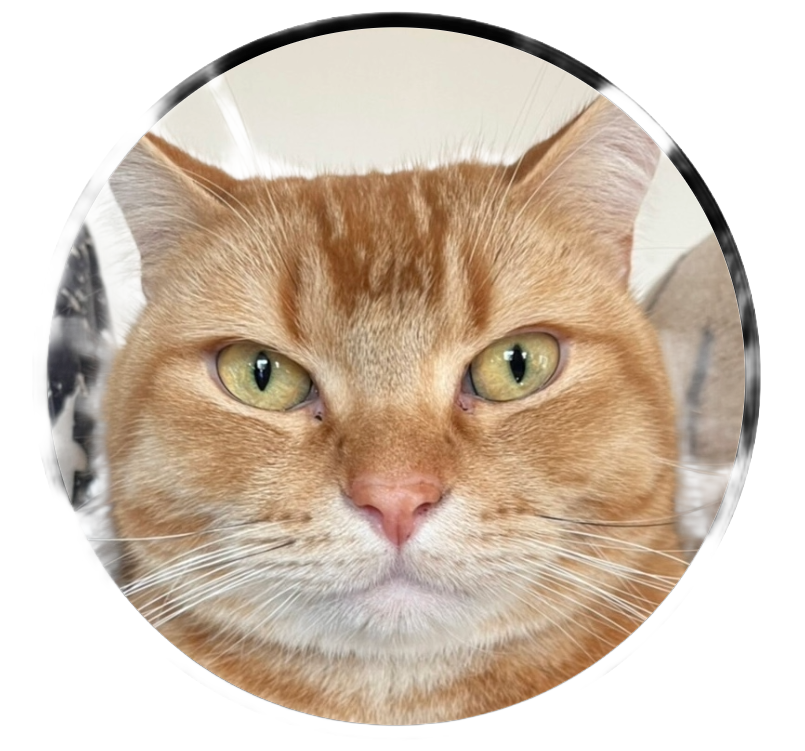
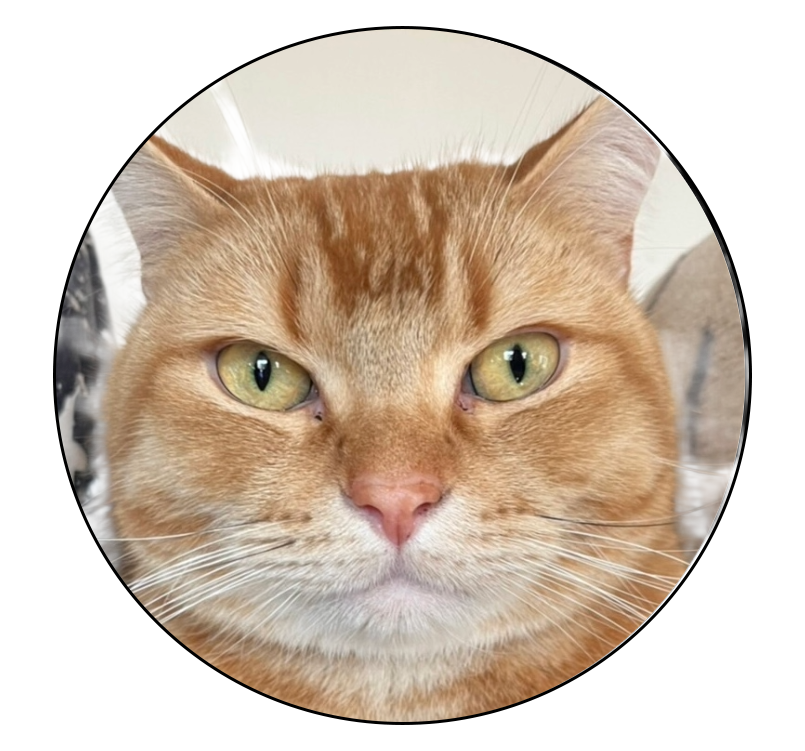
Add files via upload

diff --git a/index.html b/index.html
@@ -182,8 +182,6 @@
 
             <ul class="work-list">
 
-                <!-- WEB -->
-
                 <li class="work-item" data-category="web">
                     <a href="./gyoza.html">
                         <div class="work-thumb">
@@ -193,27 +191,7 @@
                     </a>
                 </li>
 
-                <li class="work-item" data-category="web">
-                    <a href="./work_cafe.html">
-                        <div class="work-thumb">
-                            <img src="./work/web/mokup/cafe_mokup_thumb.gif" alt="">
-                        </div>
-                        <p>カフェサイト</p>
-                    </a>
-                </li>
-
-                <li class="work-item" data-category="web">
-                    <a href="./bicycle.html">
-                        <div class="work-thumb">
-                            <img src="./work/web/mokup/bicycle_mokup_thumb.gif" alt="">
-                        </div>
-                        <p>サイクリングショップ</p>
-                    </a>
-                </li>
-
-
-                <!-- MOVIE -->
-
+                
                 <li class="work-item" data-category="movie">
                     <a href="./web_introduce.html">
                         <div class="work-thumb">
@@ -244,6 +222,37 @@
                     </a>
                 </li>
 
+                
+                <li class="work-item" data-category="web">
+                    <a href="./work_cafe.html">
+                        <div class="work-thumb">
+                            <img src="./work/web/mokup/cafe_mokup_thumb.gif" alt="">
+                        </div>
+                        <p>カフェサイト</p>
+                    </a>
+                </li>
+
+
+                <li class="work-item" data-category="graphic">
+                    <a href="./tomato_bunner.html">
+                        <div class="work-thumb graphic-thumb">
+                            <img src="./work/banner/akanosyukan.jpg" alt="">
+                        </div>
+                        <p>トマトジュースPRバナー</p>
+                    </a>
+                </li>
+
+
+                <li class="work-item" data-category="graphic">
+                    <a href="./namonaki.html">
+                        <div class="work-thumb graphic-thumb">
+                            <img src="./work/flyer/namonaki.jpg" alt="">
+                        </div>
+                        <p>サンドイッチ屋ポスター</p>
+                    </a>
+                </li>
+
+
                 <li class="work-item" data-category="movie">
                     <a href="./tacos.html">
                         <div class="work-thumb">
@@ -259,25 +268,6 @@
                     </a>
                 </li>
 
-                <!-- GRAPHIC -->
-
-                <li class="work-item" data-category="graphic">
-                    <a href="./tomato_bunner.html">
-                        <div class="work-thumb graphic-thumb">
-                            <img src="./work/banner/akanosyukan.jpg" alt="">
-                        </div>
-                        <p>トマトジュースPRバナー</p>
-                    </a>
-                </li>
-
-                <li class="work-item" data-category="graphic">
-                    <a href="./namonaki.html">
-                        <div class="work-thumb graphic-thumb">
-                            <img src="./work/flyer/namonaki.jpg" alt="">
-                        </div>
-                        <p>サンドイッチ屋ポスター</p>
-                    </a>
-                </li>
 
                 <li class="work-item" data-category="graphic">
                     <a href="./syunkikousyu.html">
@@ -285,6 +275,15 @@
                             <img src="./work/banner/syunkikousyu.jpeg" alt="">
                         </div>
                         <p>春季講習女性向け</p>
+                    </a>
+                </li>
+
+                <li class="work-item" data-category="web">
+                    <a href="./bicycle.html">
+                        <div class="work-thumb">
+                            <img src="./work/web/mokup/bicycle_mokup_thumb.gif" alt="">
+                        </div>
+                        <p>サイクリングショップ</p>
                     </a>
                 </li>
 

diff --git a/css/style.css b/css/style.css
@@ -184,6 +184,27 @@ h2 {
     line-height: 1.8;
 }
 
+.about-container img{
+    max-width: 200px;
+    animation: floatCat 4s ease-in-out infinite;
+}
+
+@keyframes floatCat{
+
+    0%{
+        transform: translateY(0);
+    }
+
+    50%{
+        transform: translateY(-8px);
+    }
+
+    100%{
+        transform: translateY(0);
+    }
+
+}
+
 /* work */
 
 .work-section h3 {
@@ -210,6 +231,18 @@ h2 {
     margin-top: -10px;
     margin-bottom: 40px;
     letter-spacing: 0.05em;
+}
+
+.work-item[data-category="web"] .work-thumb{
+    border-top:6px solid #4A90E2;
+}
+
+.work-item[data-category="movie"] .work-thumb{
+    border-top:6px solid #E74C3C;
+}
+
+.work-item[data-category="graphic"] .work-thumb{
+    border-top:6px solid #27AE60;
 }
 
 .work-thumb {
@@ -252,9 +285,33 @@ h2 {
     border-radius: 999px;
 }
 
+.filter-btn[data-filter="web"]{
+    border-color:#4A90E2;
+}
+
+.filter-btn[data-filter="movie"]{
+    border-color:#E74C3C;
+}
+
+.filter-btn[data-filter="graphic"]{
+    border-color:#27AE60;
+}
+
 .filter-btn.active {
     background: #333;
     color: #fff;
+}
+
+.filter-btn[data-filter="web"].active{
+    background:#4A90E2;
+}
+
+.filter-btn[data-filter="movie"].active{
+    background:#E74C3C;
+}
+
+.filter-btn[data-filter="graphic"].active{
+    background:#27AE60;
 }
 
 .work-item.is-hidden {
@@ -426,6 +483,37 @@ h2 {
     background: #fff;
     border-radius: 999px;
     font-size: 14px;
+}
+
+/* いったん隠す */
+.skills-list li,
+.learning-box,
+.strength-box {
+    opacity: 0;
+    transform: translateY(30px);
+    transition: all 0.8s ease;
+}
+
+/* ふわっと出す */
+.fade-in {
+    opacity: 1 !important;
+    transform: translateY(0) !important;
+}
+
+.skills-list li:nth-child(1){
+    transition-delay: 0.1s;
+}
+
+.skills-list li:nth-child(2){
+    transition-delay: 0.2s;
+}
+
+.skills-list li:nth-child(3){
+    transition-delay: 0.3s;
+}
+
+.skills-list li:nth-child(4){
+    transition-delay: 0.4s;
 }
 
 /* contact */

diff --git a/js/script.js b/js/script.js
@@ -144,3 +144,30 @@ document.querySelectorAll('.sp-nav a').forEach(link => {
     });
 });
 
+
+// ====================
+//  スキルカード　ふわっと
+// ====================
+const fadeTargets = document.querySelectorAll(
+    '.skills-list li, .learning-box, .strength-box'
+);
+
+const observer = new IntersectionObserver((entries) => {
+
+    entries.forEach(entry => {
+
+        if (entry.isIntersecting) {
+
+            entry.target.classList.add('fade-in');
+
+        }
+
+    });
+
+}, {
+    threshold: 0.2
+});
+
+fadeTargets.forEach(target => {
+    observer.observe(target);
+});
